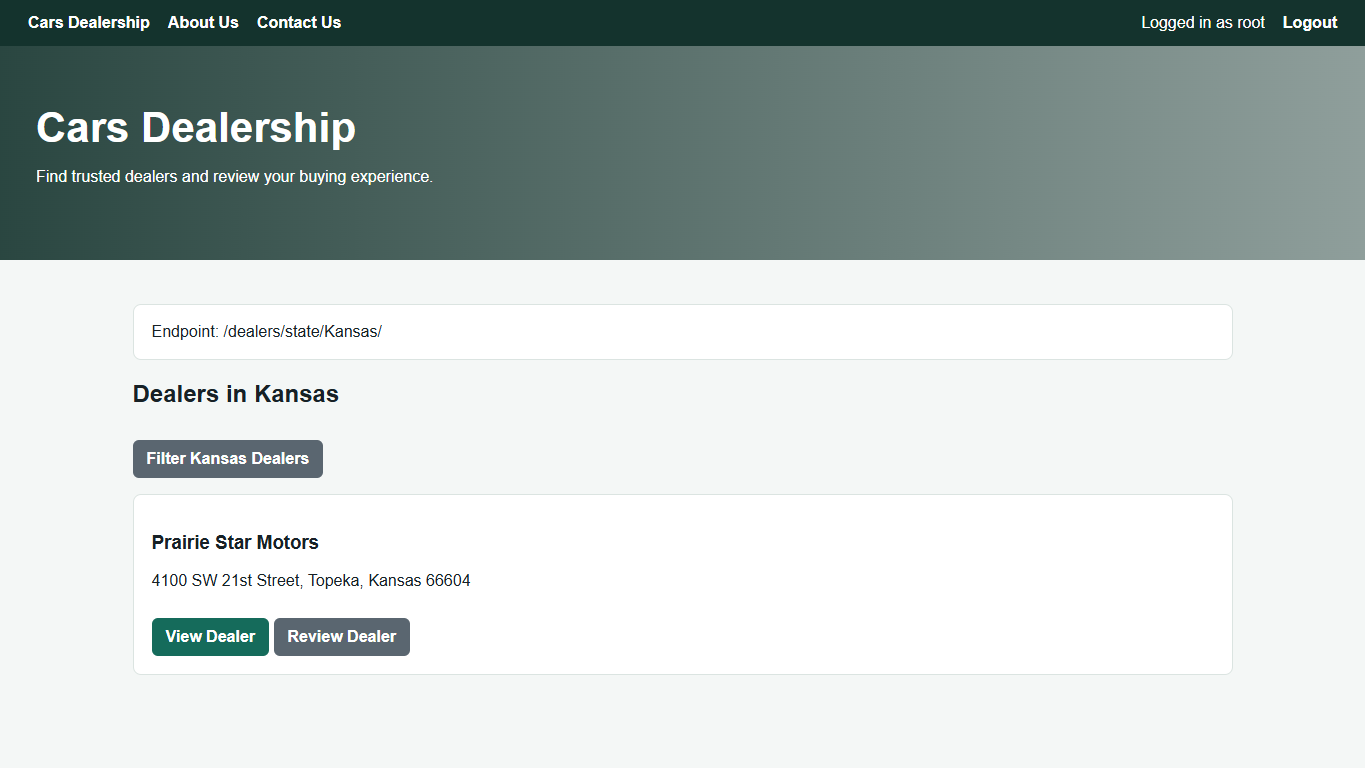
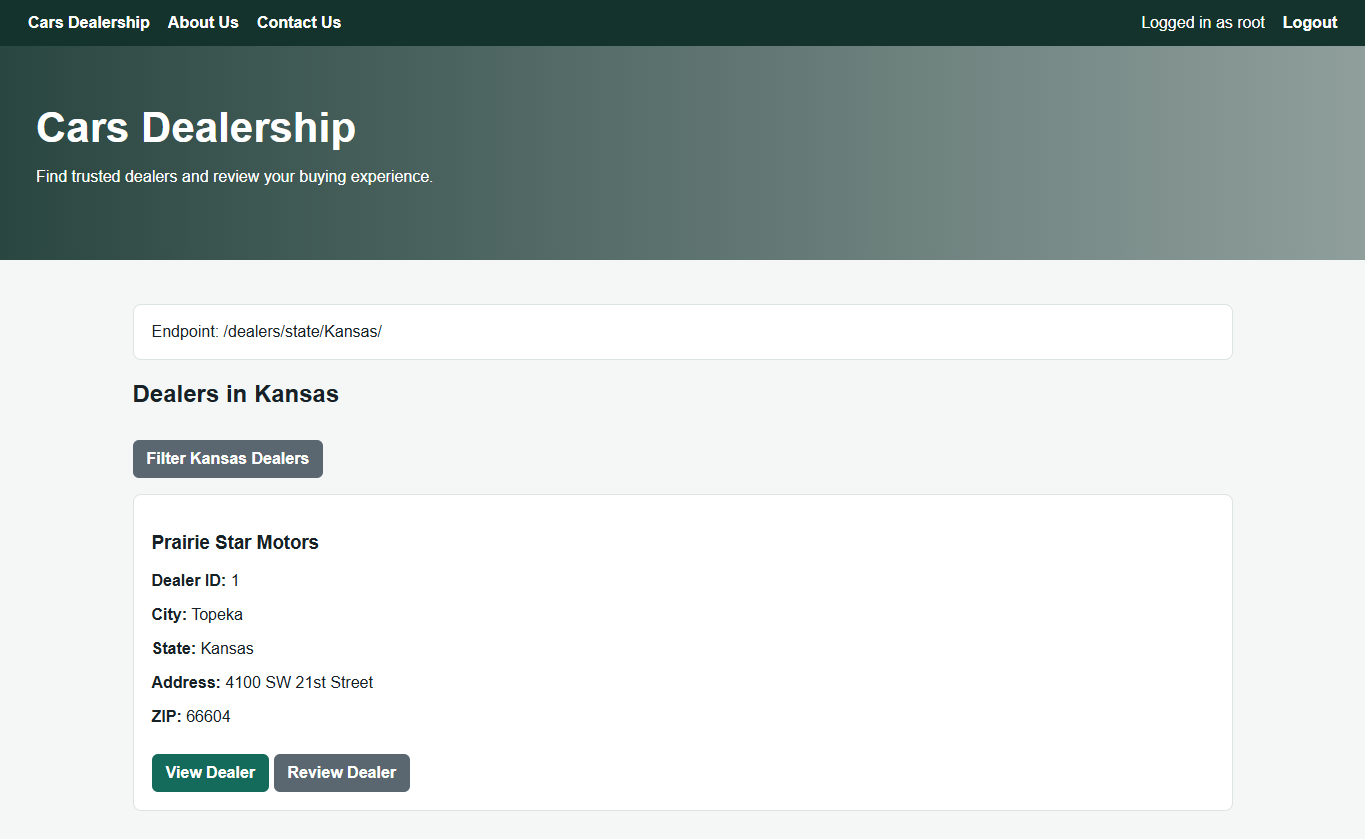
fix grader feedback outputs

diff --git a/server/frontend/static/Contact.html b/server/frontend/static/Contact.html
@@ -3,6 +3,7 @@
   <head>
     <meta charset="utf-8">
     <meta name="viewport" content="width=device-width, initial-scale=1">
+    <link rel="stylesheet" href="/static/bootstrap.min.css">
     <link rel="stylesheet" href="/static/css/styles.css">
     <title>Contact Us | Cars Dealership</title>
   </head>
@@ -19,13 +20,14 @@
     <main class="container">
       <div class="grid">
         <section class="card">
-          <img class="contact-photo" src="https://images.unsplash.com/photo-1556761175-b413da4baf72?auto=format&fit=crop&w=1200&q=80" alt="Customer support office">
+          <img class="contact-photo" src="/static/contactus.png" alt="Customer support office">
           <h2>Customer Support</h2>
           <p>Email: support@carsdealership.example</p>
           <p>Phone: +1 785 555 0142</p>
           <p>Hours: Monday to Friday, 8:00 AM to 6:00 PM Central Time</p>
         </section>
         <section class="card">
+          <img class="contact-photo" src="/static/cars.jpeg" alt="Cars at the dealership">
           <h2>Head Office</h2>
           <p>4100 SW 21st Street</p>
           <p>Topeka, Kansas 66604</p>

diff --git a/server/frontend/templates/home.html b/server/frontend/templates/home.html
@@ -17,7 +17,11 @@
       {% for dealer in dealers %}
         <article class="card">
           <h3>{{ dealer.full_name }}</h3>
-          <p>{{ dealer.address }}, {{ dealer.city }}, {{ dealer.state }} {{ dealer.zip }}</p>
+          <p><strong>Dealer ID:</strong> {{ dealer.id }}</p>
+          <p><strong>City:</strong> {{ dealer.city }}</p>
+          <p><strong>State:</strong> {{ dealer.state }}</p>
+          <p><strong>Address:</strong> {{ dealer.address }}</p>
+          <p><strong>ZIP:</strong> {{ dealer.zip }}</p>
           <a class="button" href="/dealer/{{ dealer.id }}/">View Dealer</a>
           {% if request.user.is_authenticated %}
             <a class="button secondary" href="/dealer/{{ dealer.id }}/review/">Review Dealer</a>

diff --git a/server/frontend/static/bootstrap.min.css b/server/frontend/static/bootstrap.min.css
@@ -1,0 +1,1 @@
+.container{width:100%;max-width:1100px;margin-right:auto;margin-left:auto}.text-center{text-align:center}.img-fluid{max-width:100%;height:auto}.row{display:flex;flex-wrap:wrap}.col{flex:1 0 0%}.card{position:relative}

diff --git a/server/djangoapp/views.py b/server/djangoapp/views.py
@@ -6,7 +6,7 @@ from django.http import JsonResponse
 from django.shortcuts import redirect, render
 from django.views.decorators.csrf import csrf_exempt
 
-from .data import CARS, DEALERS, REVIEWS
+from .data import CAR_MODELS, CARS, DEALERS, REVIEWS
 
 
 def _dealer(dealer_id):
@@ -121,7 +121,7 @@ def fetch_dealer_reviews(request, dealer_id):
 
 
 def get_cars(request):
-    return JsonResponse({"status": 200, "cars": CARS})
+    return JsonResponse({"CarModels": CAR_MODELS})
 
 
 @csrf_exempt
@@ -129,3 +129,7 @@ def analyze_review(request):
     payload = request.POST or json.loads(request.body or "{}")
     text = payload.get("review", payload.get("text", ""))
     return JsonResponse({"status": 200, "review": text, "sentiment": _sentiment(text)})
+
+
+def analyze_review_text(request, review_text):
+    return JsonResponse({"review": review_text, "sentiment": _sentiment(review_text)})

diff --git a/server/djangoapp/data.py b/server/djangoapp/data.py
@@ -78,3 +78,21 @@ CARS = [
     {"make": "Honda", "models": ["Accord", "Civic", "CR-V"]},
     {"make": "Ford", "models": ["Escape", "F-150", "Explorer"]},
 ]
+
+CAR_MODELS = [
+    {"make": "Toyota", "model": "Camry"},
+    {"make": "Toyota", "model": "Corolla"},
+    {"make": "Toyota", "model": "RAV4"},
+    {"make": "Toyota", "model": "Prius"},
+    {"make": "Honda", "model": "Accord"},
+    {"make": "Honda", "model": "Civic"},
+    {"make": "Honda", "model": "CR-V"},
+    {"make": "Honda", "model": "Pilot"},
+    {"make": "Ford", "model": "Escape"},
+    {"make": "Ford", "model": "F-150"},
+    {"make": "Ford", "model": "Explorer"},
+    {"make": "Ford", "model": "Mustang"},
+    {"make": "Chevrolet", "model": "Malibu"},
+    {"make": "Chevrolet", "model": "Tahoe"},
+    {"make": "Nissan", "model": "Altima"},
+]

diff --git a/server/djangoapp/urls.py b/server/djangoapp/urls.py
@@ -21,4 +21,5 @@ urlpatterns = [
     path("djangoapp/fetchReviews/dealer/<int:dealer_id>", views.fetch_dealer_reviews, name="fetch_dealer_reviews"),
     path("djangoapp/get_cars", views.get_cars, name="get_cars"),
     path("djangoapp/analyze", views.analyze_review, name="analyze_review"),
+    path("djangoapp/analyze/<str:review_text>", views.analyze_review_text, name="analyze_review_text"),
 ]
